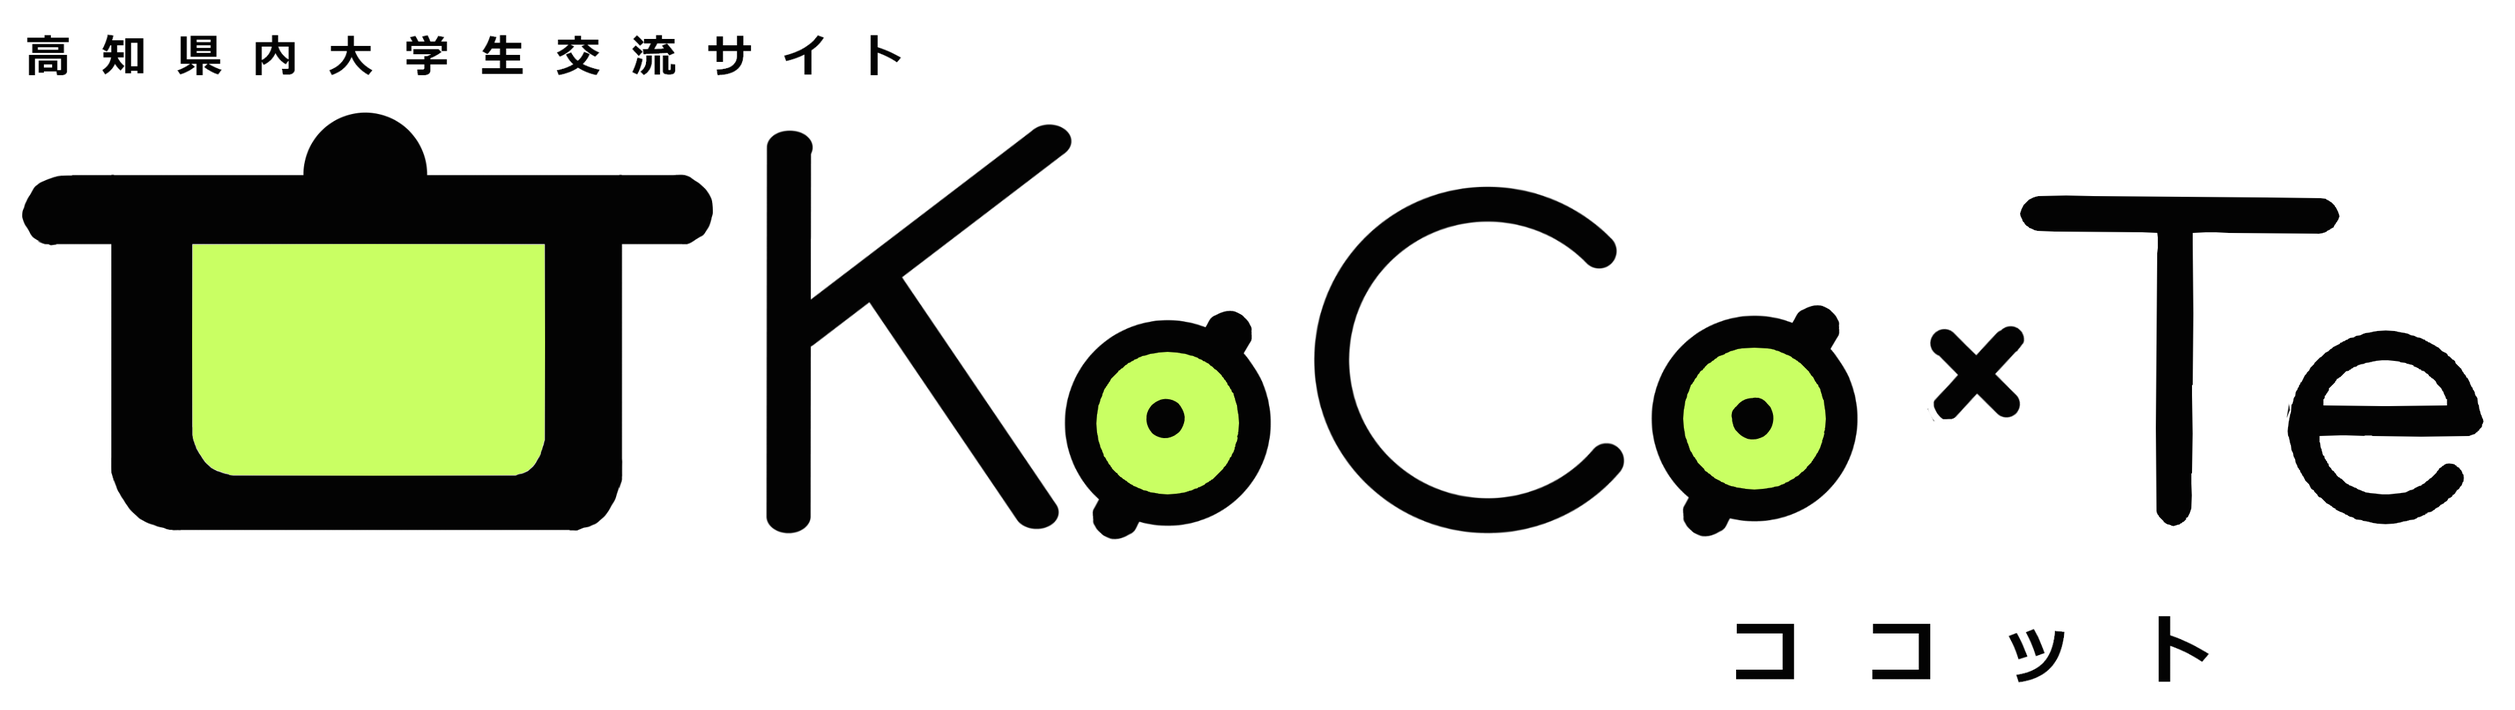
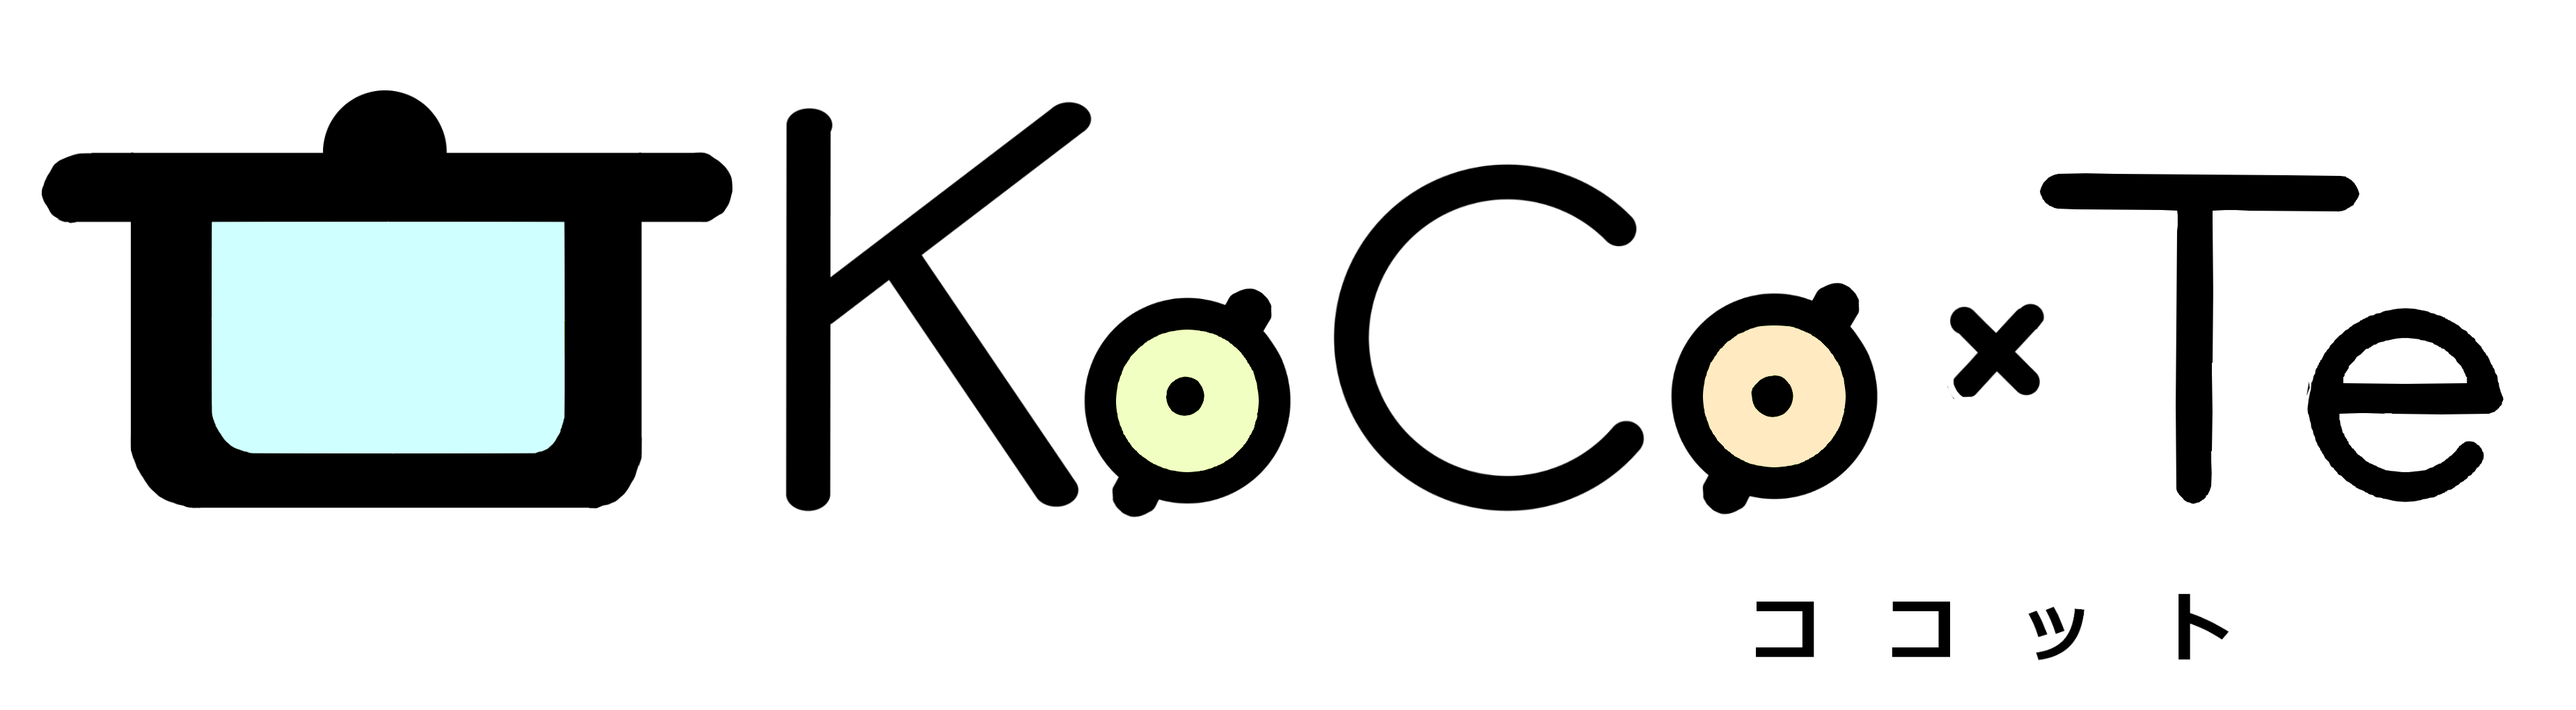
ロゴ修正

diff --git a/temp/kocote/login.php b/temp/kocote/login.php
@@ -172,7 +172,7 @@ if ($mode == "login") {//ログイン処理
     <body>
         <!-- <?php echo $errorMessage ?> -->
 
-        <p class="logo-img"><img src="img/kocote.png" id="logo"></p>
+        <p class="logo-img"><img src="img/kocote_1.png" id="logo"></p>
 
         <div id="form-login">
             <form id="loginForm" name="loginForm" action="login.php" method="POST">
